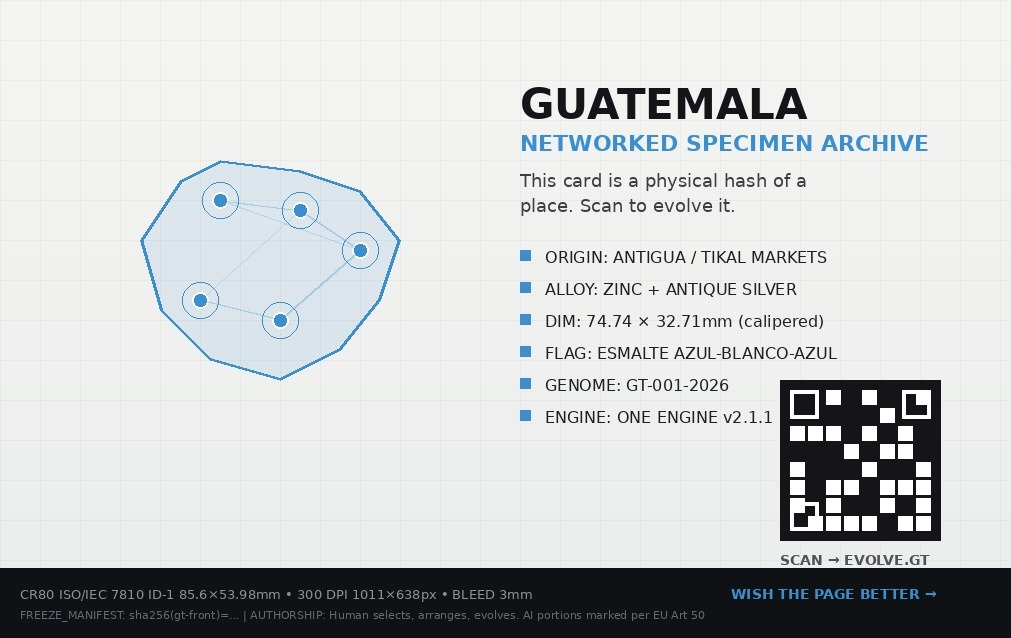
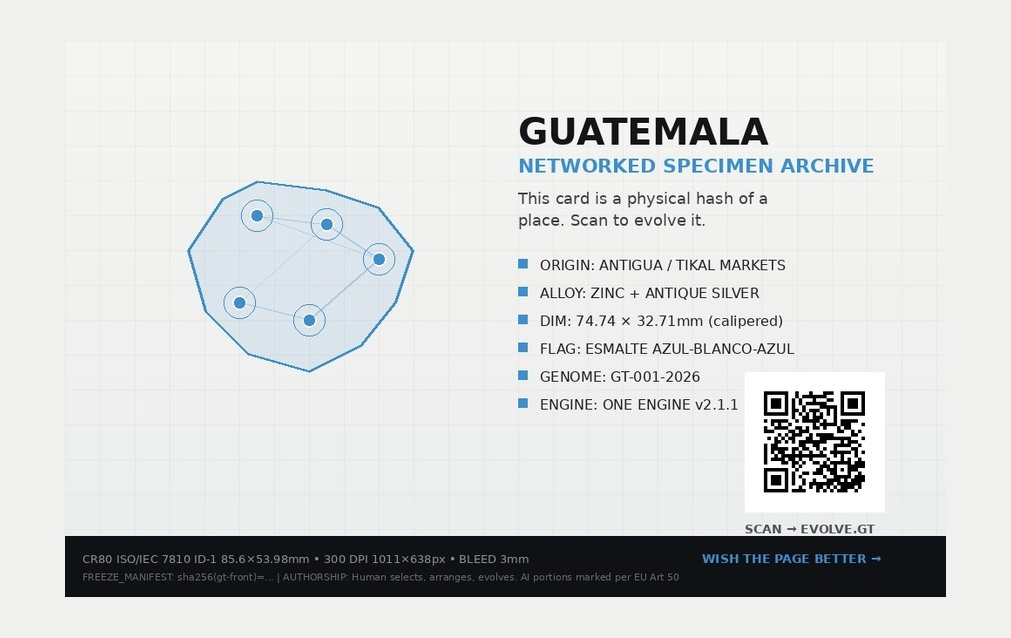
The Guatemala archive card's QR now actually scans
It never did. The QR on that card was ~18 modules across and no QR version has 18 —
the smallest real one is 21x21 — so it was a drawing of a QR, and it decoded at no
magnification: 1x, 2x, 4x, 8x, 12x, cropped and upscaled, all nothing. A card whose
QR cannot be read is a dead card, and this one could not be caught by eye, because
it looks exactly like a working QR.

It could not be fixed before today for a real reason: there was nowhere for it to
point. Now there is — mrdirno.github.io/vibe-cards/gt/ — so it is a genuine QR:

  29x29 modules, version 3 at EC level M    (M is free here: the 40-byte payload
                                             needs v3 at both L and M, and Q would
                                             force v4 with a SMALLER module in the
                                             same box)
  module 4px = 0.339 mm                      nearest-neighbour only; interpolating
                                             softens module edges and costs scans
  quiet zone 5.5 modules on all four sides   inside the patch, not borrowed from
                                             the artwork around it

Verified by decoding, not by looking. Through the system barcode detector — the
same class of reader a phone uses — it decodes at full size, on the bare crop at its
real 13.63 mm, and down to a 450px-wide capture of the whole card (module ~1.55px).
It fails at 380px, so the headroom is measured rather than assumed. The original
[…]

Changed region(s): [[0.0, 0.3871, 1.0, 1.0], [0.4906, 0.1191, 0.9199, 0.3574], [0.1227, 0.2382, 0.4293, 0.5956]]

diff --git a/tools/qrdecode.swift b/tools/qrdecode.swift
@@ -1,0 +1,19 @@
+import Foundation
+import Vision
+import AppKit
+
+// Decode any barcode in an image using the system Vision framework.
+// A card whose QR does not decode is a dead card, and that cannot be judged by eye.
+for path in CommandLine.arguments.dropFirst() {
+    guard let img = NSImage(contentsOfFile: path),
+          let cg = img.cgImage(forProposedRect: nil, context: nil, hints: nil) else {
+        print("\(path): unreadable"); continue
+    }
+    let req = VNDetectBarcodesRequest()
+    try? VNImageRequestHandler(cgImage: cg, options: [:]).perform([req])
+    let found = (req.results ?? [])
+    if found.isEmpty { print("\((path as NSString).lastPathComponent): NO BARCODE DETECTED (\(cg.width)x\(cg.height))") }
+    for r in found {
+        print("\((path as NSString).lastPathComponent): \(r.symbology.rawValue) -> \(r.payloadStringValue ?? "<no payload>")")
+    }
+}

diff --git a/tools/verify_geometry.py b/tools/verify_geometry.py
@@ -257,6 +257,25 @@ def main(argv=None) -> int:
                   f"{im.width}x{im.height} = {ar:.4f} vs {CARD_W/CARD_H:.4f}; "
                   f"cover-fit will crop {abs(1 - ar/(CARD_W/CARD_H))*100:.1f}% off two edges")
 
+    print("\nTHE ARCHIVE CARD'S QR ACTUALLY SCANS")
+    # A card whose QR does not decode is a dead card, and it cannot be judged by
+    # eye — the version this replaced looked like a perfectly good QR and was
+    # ~18 modules across, which no QR version is. Decoded through the system
+    # barcode detector, because that is the same class of reader a phone uses.
+    import subprocess, shutil
+    back = SRC / "web" / "templates" / "gt-archive-back.jpg"
+    dec = REPO / "tools" / "qrdecode"
+    if not back.is_file():
+        check("archive back exists to test", False, "missing")
+    elif not dec.is_file():
+        print("  SKIP  qrdecode helper not built (swiftc tools/qrdecode.swift -o tools/qrdecode)")
+        print("        This is NOT a pass.")
+    else:
+        out = subprocess.run([str(dec), str(back)], capture_output=True, text=True).stdout
+        want = "https://mrdirno.github.io/vibe-cards/gt/"
+        check("archive back QR decodes to the live node URL", want in out,
+              f"decoder said: {out.strip()[:120] or '(nothing)'}")
+
     print()
     if fails:
         print(f"FAILED — {len(fails)} check(s):")
